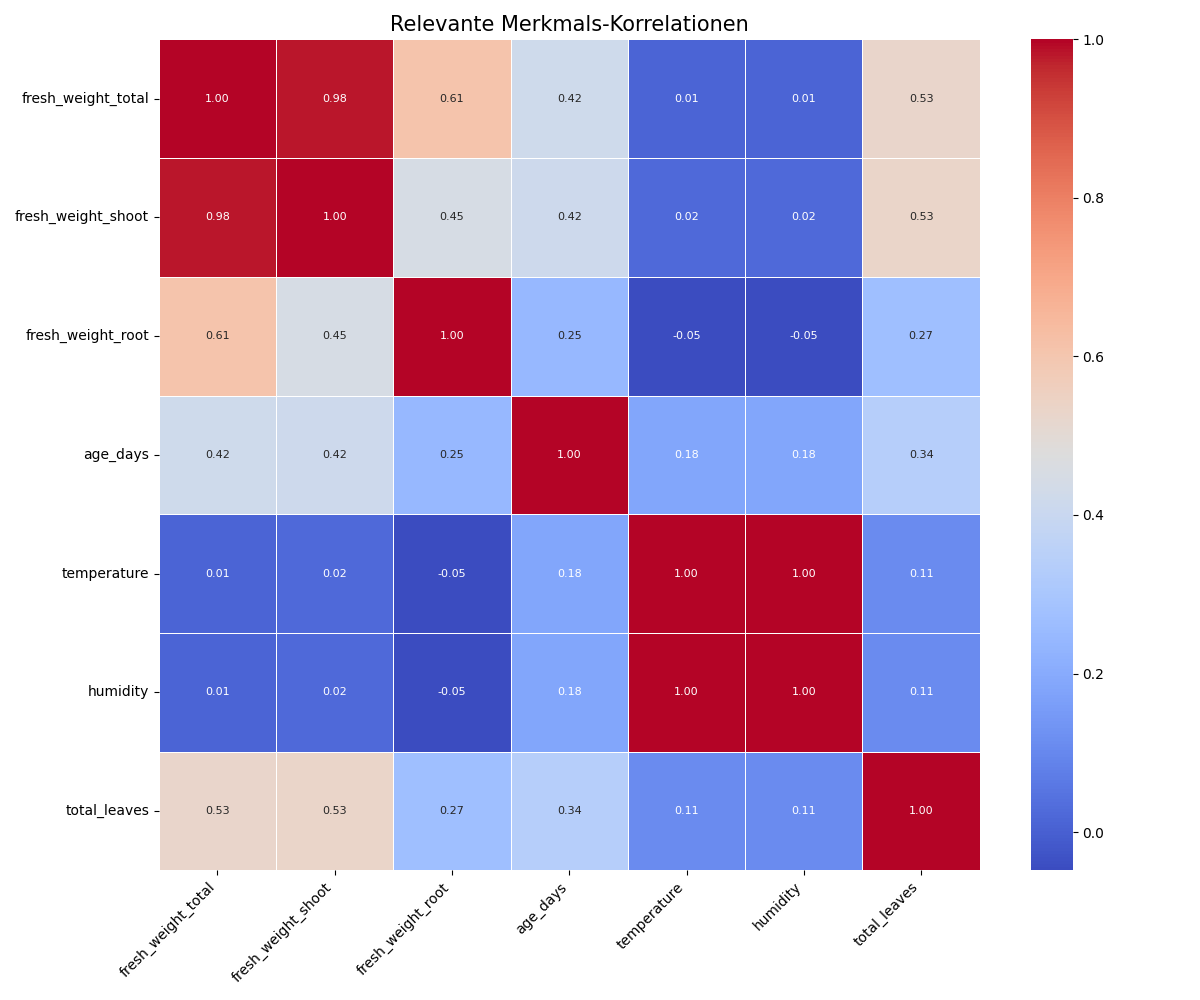
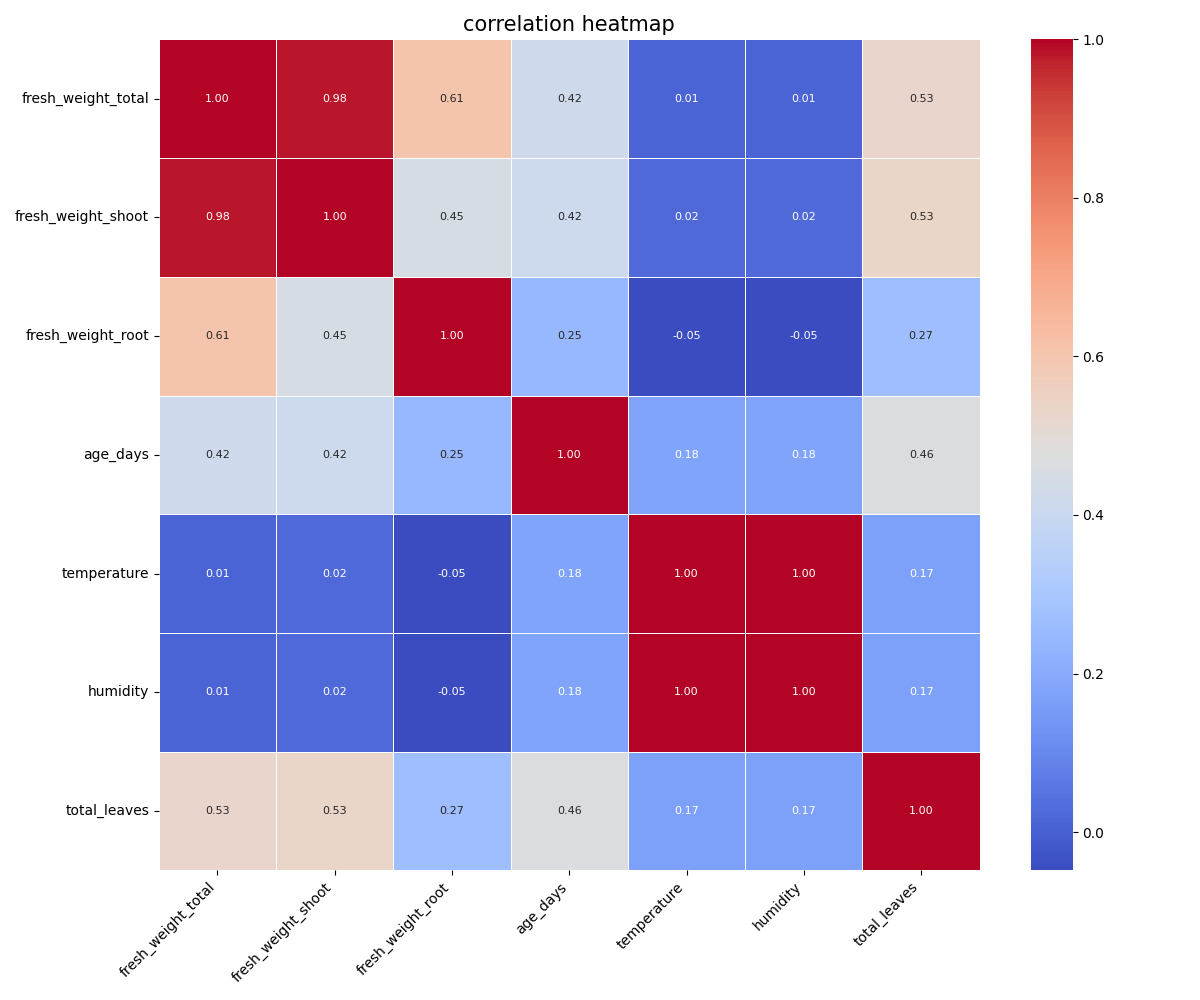
README vervollständigt, READM.pdf hinzugefügt, eda.py angepasst

Changed region(s): [[0.7092, 0.372, 0.8325, 0.527], [0.4008, 0.744, 0.5242, 0.868], [0.3083, 0.0, 0.6167, 0.031]]

diff --git a/eda.py b/eda.py
@@ -21,6 +21,8 @@ os.makedirs(FIGURES_DIR, exist_ok=True)
 # 3. DANN die Daten laden (mit dem richtigen Pfad-Objekt)
 df = pd.read_csv(CSV_PATH, decimal=',')
 
+df = df.dropna(subset=['fresh_weight_total'])
+
 # 1. Target distribution
 plt.figure(figsize=(8, 5))
 sns.histplot(df['fresh_weight_total'], kde=True)
@@ -68,7 +70,7 @@ sns.heatmap(
     annot_kws={"size": 8} # Kleinere Schrift für die Zahlen
 )
 
-plt.title('Relevante Merkmals-Korrelationen', fontsize=15)
+plt.title('correlation heatmap', fontsize=15)
 plt.xticks(rotation=45, ha='right') # Labels drehen, damit sie nicht überlappen
 plt.tight_layout()
 plt.savefig(os.path.join(FIGURES_DIR, 'correlation_heatmap.png'))
@@ -88,4 +90,4 @@ sns.histplot(brightness, color='gray')
 plt.title('Pixel Intensity Distribution (Sample)')
 plt.savefig('figures/image_pixel_analysis.png')
 
-print("EDA abgeschlossen. Plots in 'figures/' gespeichert.")
+print("EDA completed. Plots saved in 'figures/'.")

diff --git a/README.md b/README.md
@@ -2,7 +2,7 @@ Plant Biomass Prediciton - MLOps Praktikum 1 - Gruppe 2
 
 This project implements a machine learning pipeling for plant biomass using top-down images of plants. 
 The machine learning pipeline includes Exploratory Data Analysis, a model training workflow using PyTorch,
-and automated logging.
+git and automated logging.
 
 1. Dataset Description & Statistics
 
@@ -14,24 +14,39 @@ and automated logging.
 2. Exploratory Data Analysis
 
     2.1 Target Distribution
+        By looking at the graph, we can see that the biomass labels are right-skewed.
+        This means that we have a high count of lightweight plants, which indicates that they are in an early growing phase.
 
     2.2 Correlation Heatmap
+        Humidity and temperature sensors are redundant. They do not give us new information.
+        The total fresh weight correlates positively with the weight of the shoot. It also correlates positively with the 
+        age and the total leaves. This is logical and normal.
 
     2.3 Biomass vs Age
+        With continuing age the total biomass increases. This is a sign for growth.
+        It also looks like the biomass got measured once per week, because there aren't dots at every day.
 
     2.4 Image Pixel Analysis
+        The graph spikes at 90 on the pixel distribution scale. This is pretty dark. The model sees a lot of dirt, which is
+        darke than the green plants.
 
     2.5 Sample images
+        We can see that plants, which have bigger leafs also have a bigger mass. This confirmes our other observations.
 
 3. Data Quality Issues
 
     Missing Labels:
-    df.dropna() found empty rows, so we had to implement, that invalid labeled samples are removed automatically.
+    df.dropna() found empty rows, so we had to implement that invalid labeled samples are removed automatically.
 
     Target Scale:
     Initial loss was "NaN" due to high mean squared error values. Labels ware scaled from 0 to 1 by dividing each value by the highest value.
 
 4. Model Architecture
+
+    We implemented a ResNet-18 architecture, which is a deep residual network.
+    By using ResNet-18, we took advantage of the model pre-trained on the ImageNet dataset, which made it easier to detect visual parts of the plants (f.e. texture or edges). 
+    We modified it to predict the continuous weight value instead of 1000 classes (model.fc = nn.Linear(model.fc.in_features, 1)).
+    Therefore we shifted the task from classification to regression.
 
 5. Training Procedure
 
@@ -54,12 +69,22 @@ and automated logging.
     6.1 Training Curves
     The loss decreases over each epoch. The Validation Loss follows the Training Loss. The Model is not overfitting.
 
+    6.2 Metrics
+    Final_Train_Loss: 0.0044
+    Final_Val_Loss: 0.0072
+    Max_Weight_Scale: 2.113
+
+    Labels were scaled by the maximum weight found in the dataset.
+
 7. Challenges & Improvements
 
     7.1 Challenges
     Exploding Gradients: Initial training failed with "NaN" loss because the biomass weights were too large for an unscaled regression head.
 
     7.2 Improvements
+    We can implement RandomRotate90 and ColorJitter using Torchvision transforms. This forces the model to recognize plants from different angels and with different lighting conditions.
+
+    By using Vision Transformer (ViT) the model could learn that distant leaves are part of the same plant.
 
 9. Reproduction Instructions
 
